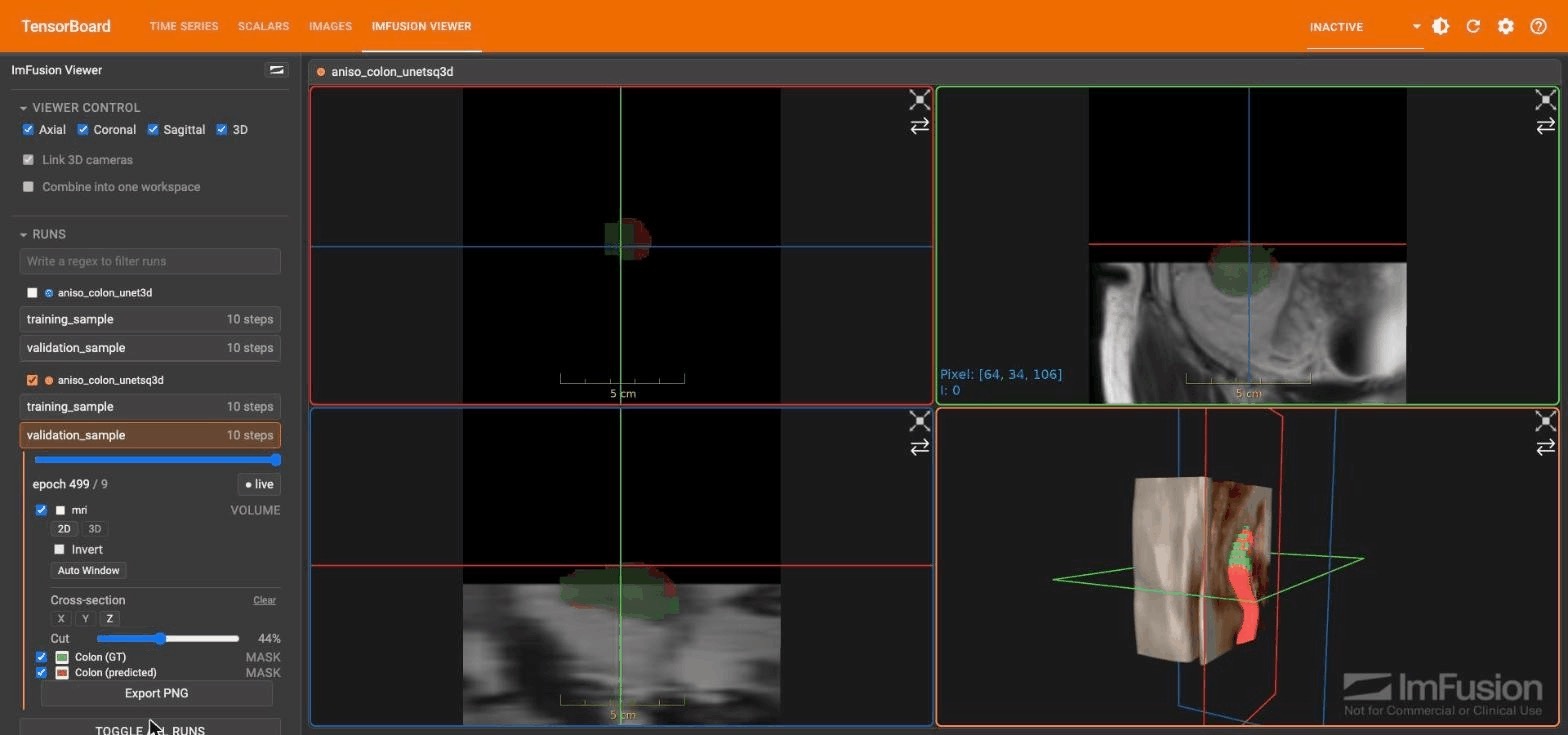
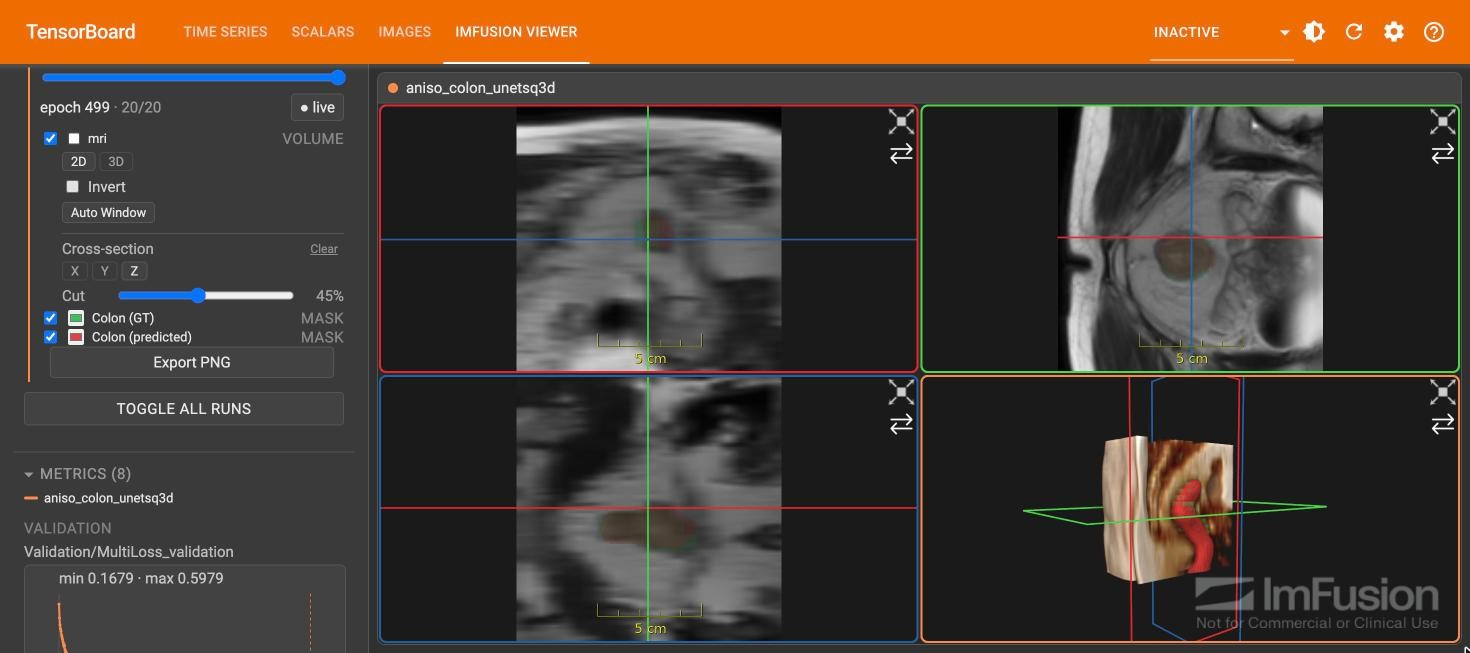
Update screenshots

diff --git a/README.md b/README.md
@@ -119,8 +119,8 @@ tensorboard --logdir <your_logdir> --samples_per_plugin imfusion_viewer=1000
   side-by-side comparison without a second window.
 - **Volume windowing and cross-section** - each volume gets an **Invert**
   toggle and **Auto Window** button (2D and 3D tracked independently), plus
-  a **Cross-section** control that cuts the volume away along X/Y/Z to
-  reveal a mask or mesh sitting inside it.
+  a **Cross-section** control that cuts the volume away along X/Y/Z in the
+  3D view (the 2D slices stay intact) to reveal a mask or mesh inside it.
 
 ![Cropping a volume in 3D, then toggling the ground-truth and predicted masks it reveals](docs/images/cross-section-mask-toggle.gif)
 
